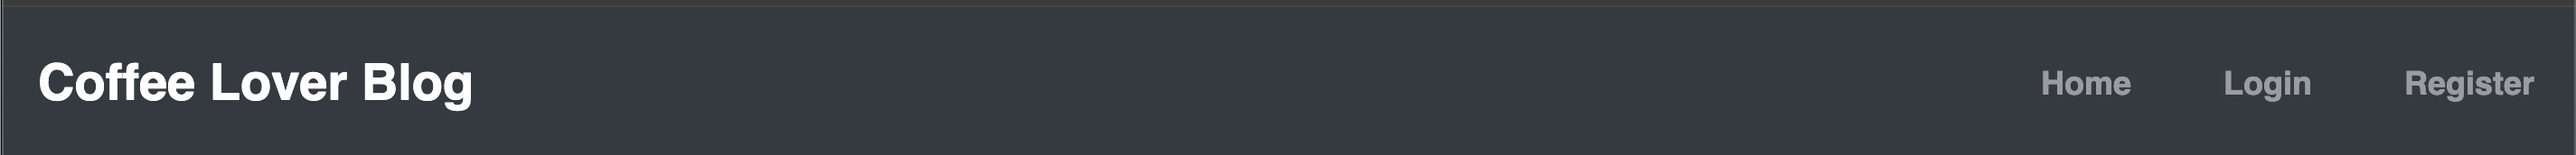
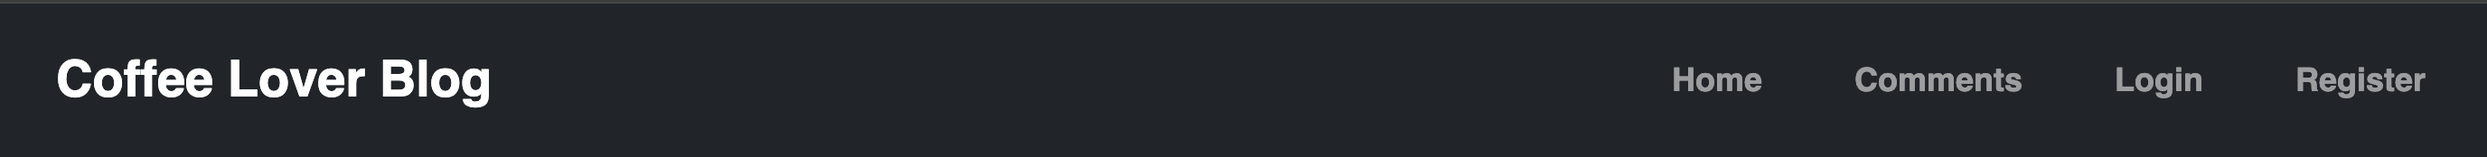
edit readme images

diff --git a/README.md b/README.md
@@ -45,6 +45,7 @@ Whether you're seeking the perfect espresso recipe or eager to share your latest
 ### Navbar
 
 - Coffee Lover Blog header links back to homepage, as well as the home button
+- Comments page to take users to the blog comments
 - Login button to take user to the login page
 - Register button to take user to the register page
 - Navbar present in all pages
@@ -77,11 +78,13 @@ Whether you're seeking the perfect espresso recipe or eager to share your latest
 
 - Logged in users are able to see this so they can add comments
 
+### Comments
+
 ![Comments](/static/images/comments.png)
 
 - Comments are available to see for users and non users. 
 
-- A logged in user is only able to see a delete button on their own comment
+- A logged in user is only able to see a delete and edit button on their own comment
 
 - Any visitor of the site is able to see the name of the user, as well as the date and time it was posted
 
@@ -102,7 +105,6 @@ Whether you're seeking the perfect espresso recipe or eager to share your latest
 ### Features left to implement
 
 - May need a page that includes detailed information about different types of coffees
-- May add an option to edit their comment
 - May add an option to like other comments
 - May add an option to comment underneath another user's comment directly
 
